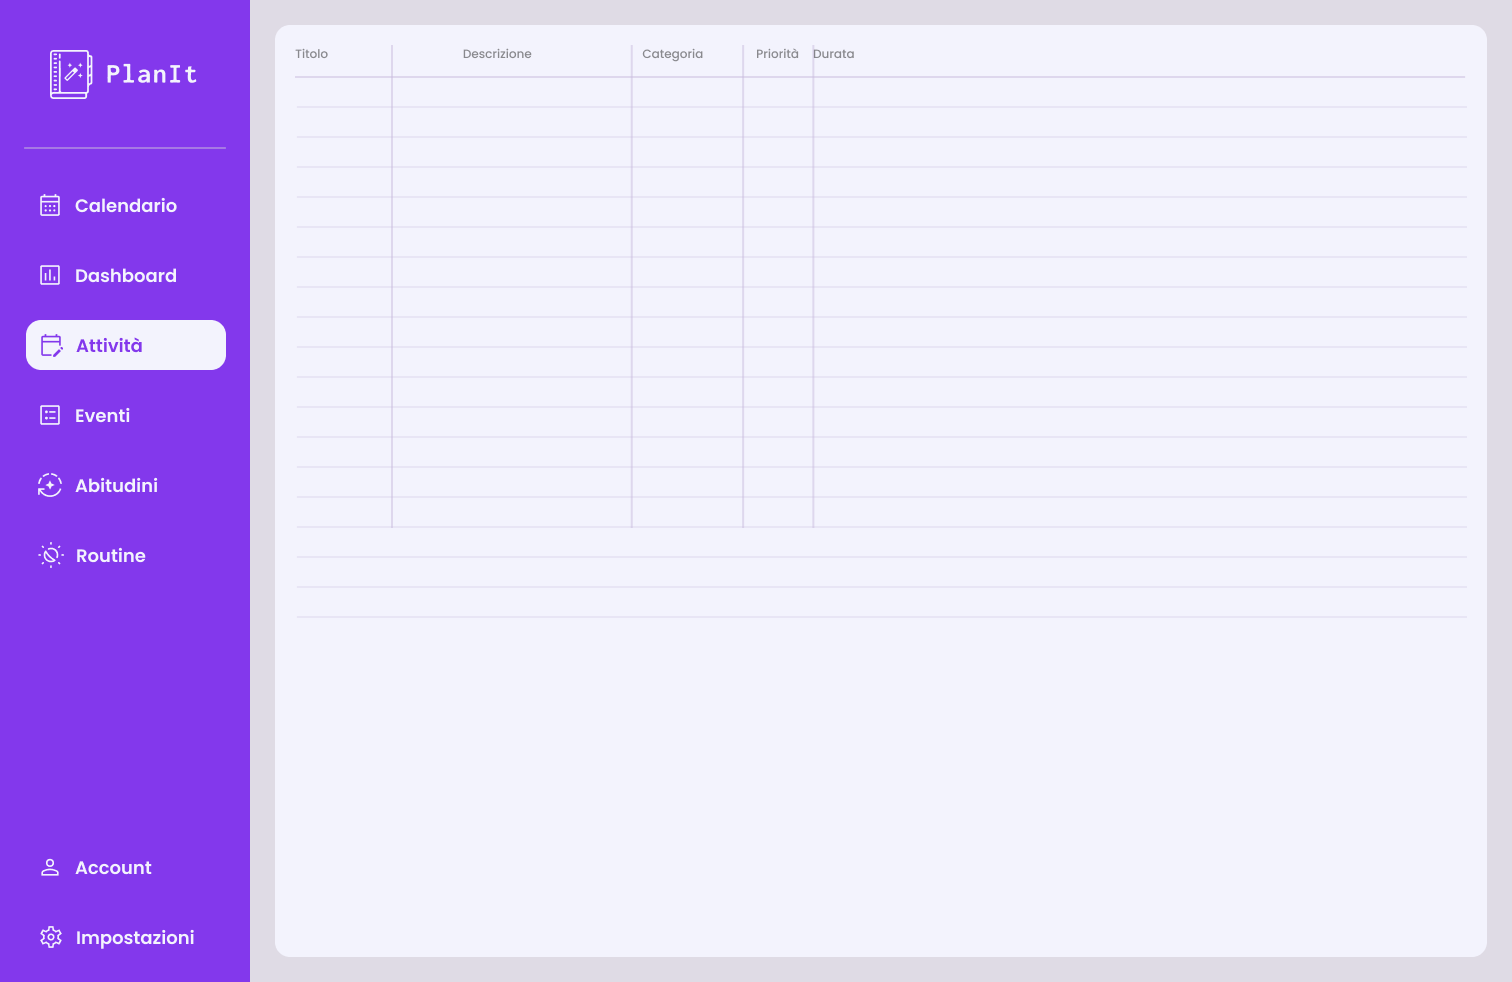
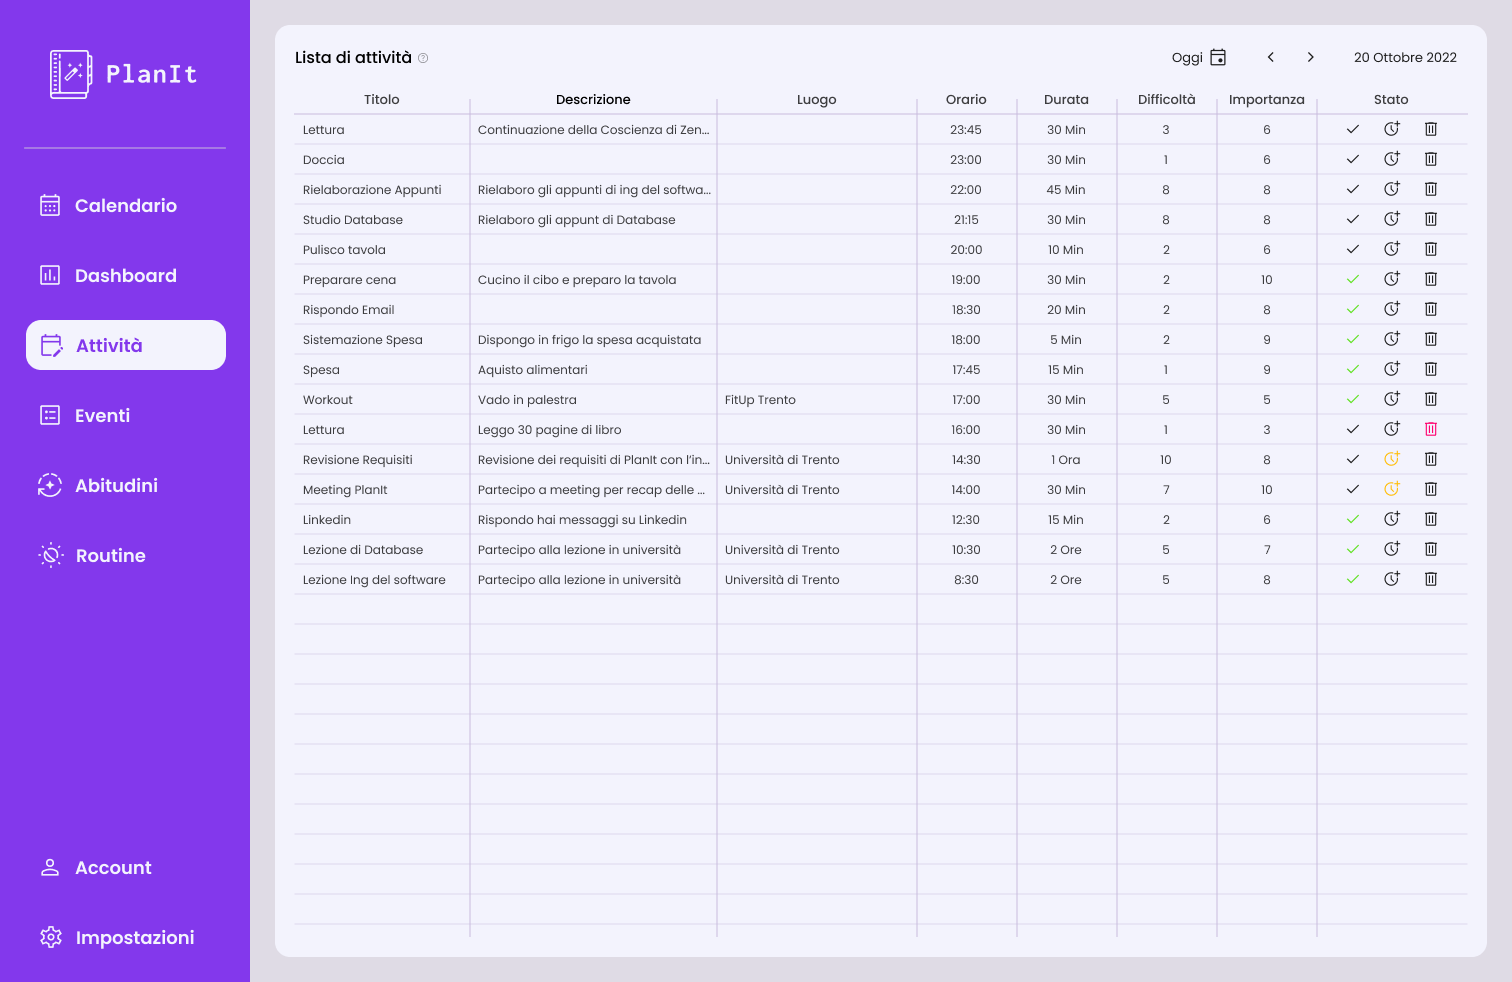
docs:aggiunta ultima schermata attivita

diff --git a/Documento di progetto LaTex/RequisitiFrontEnd.tex b/Documento di progetto LaTex/RequisitiFrontEnd.tex
@@ -98,10 +98,11 @@ Nel presente capitolo vengono riportati alcuni mockup relativi alle schermate de
            
     \end{listaPersonale2}
     \pagebreak
-    \elemento [SCHERMATA ATTIVITA'] {fe:4} Nella \href{https://www.figma.com/proto/cO66hx25OizBABGtWp8XlT/Planify?node-id=159%3A277&scaling=scale-down&page-id=0%3A1&starting-point-node-id=25%3A82}{schermata attività} è presente una tabella delle attività della giornata con le varie informazioni, ovvero: titolo, descrizione, categoria, priorità, durata (\ref{rf:5}), posizione (\ref{rf:8.2}) e difficoltà. Inoltre ci sono dei tasti con cui si può rimandare e ritardare l’attività (\ref{rf:10}) e, infine, un tasto per indicare di averla completata. A fine giornata di default tutti gli impegni sono posti come completati; per modificare tale opzione deve intervenire l’utente.
+    \elemento [SCHERMATA ATTIVITA'] {fe:4} Nella \href{https://www.figma.com/proto/cO66hx25OizBABGtWp8XlT/Planify?node-id=159%3A277&scaling=scale-down&page-id=0%3A1&starting-point-node-id=25%3A82}{schermata attività} è presente una tabella delle attività della giornata con le varie informazioni, ovvero: titolo, descrizione, categoria, priorità, durata (\ref{rf:5}), posizione (\ref{rf:8.2}) e difficoltà. Inoltre ci sono dei tasti con cui si può ritardare (\ref{rf:10}), eliminare (\ref{rf:5})l'attività e, infine, un tasto per indicare di averla completata. A fine giornata di default tutti gli impegni sono posti come completati; per modificare tale opzione deve intervenire l’utente.
     \begin{figure}[H]
         \centering
         \href{https://www.figma.com/proto/cO66hx25OizBABGtWp8XlT/Planify?node-id=159%3A277&scaling=scale-down&page-id=0%3A1&starting-point-node-id=25%3A82}{\includegraphics[width=1\textwidth]{img/FrontEnd/Attivita/Attivita.png}}
+        \caption {Figura 4: le spunte verdi indicano il completamento dell'evento; l'orologio giallo indica il ritardo nel compiere l'evento; il cestino l'eliminazione dell'evento}
     \end{figure}
     \pagebreak
     \elemento [SCHERMATA EVENTI] {fe:5} Nella \href{https://www.figma.com/proto/cO66hx25OizBABGtWp8XlT/Planify?node-id=160%3A290&scaling=scale-down&page-id=0%3A1&starting-point-node-id=25%3A82}{schermata eventi} sono presenti tutti i comandi che riguardano la compilazione ed eliminazione di eventi (\ref{rf:5}), calendari (\ref{rf:4.2}) e raggruppamenti (RF\ref{rf:5.9}).
